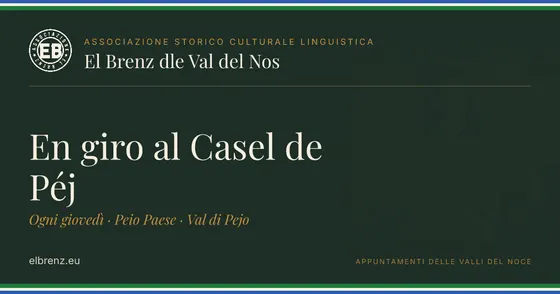
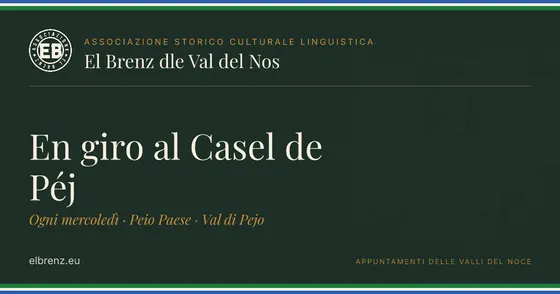
mappa: lo slot della carta storica, e un'assenza che si spiega invece di sembrare un guasto
Il catasto asburgico d'impianto non c'è, e non per una scelta: la licenza è
a posto, sono i fogli a non essere raggiungibili. Il dataset su
dati.trentino.it ha una sola risorsa, catastotn.it, che oggi risponde 301
verso un portale autenticato; e il GeoServer provinciale ha un solo
workspace e centonove livelli, fra cui il catasto storico non c'è. Letto
tutto, non dedotto.

Quindi qui c'è il posto e non il contenuto. src/lib/catastoStorico.ts tiene
le coperture, oggi vuote: il giorno che i fogli arrivano si aggiunge una voce
e la mappa si comporta di conseguenza da sola, riquadri, confini, zoom utili
e attribuzione compresi.

E finché è vuoto la mappa non mette un riquadro bianco: un pannello dice che
la carta storica non c'è ancora e perché. Un'assenza spiegata è
informazione, una muta sembra un guasto del sito. Quando ci sarà, lo stesso
pannello diventa il cursore della trasparenza, perché il valore vero non è
vedere l'ottocento ma vederlo sopra l'oggi, e dice anche quando ci si sposta
fuori dall'area coperta.

Il selettore di sfondo passa da due voci a tre: la mappa standard smette di
essere solo un ripiego per quando il servizio provinciale non risponde e
diventa una scelta. La quarta voce, il catasto, comparirà da sola con i dati:
metterla adesso vorrebbe dire un interruttore che non accende niente.

I pin ora hanno un'ombra portata oltre al bordo avorio. Su ortofoto un pin
scuro sparisce dentro un bosco e uno chiaro dentro un prato secco: il bordo
[…]

Changed region(s): [[0.0911, 0.7041, 0.4857, 0.7653]]

diff --git a/src/lib/catastoStorico.ts b/src/lib/catastoStorico.ts
@@ -1,0 +1,99 @@
+// src/lib/catastoStorico.ts — il catasto asburgico d'impianto come sfondo
+// storico della mappa delle Valli.
+//
+// [4/8/2026] PERCHE' QUESTO FILE ESISTE VUOTO.
+//
+// Il livello non c'e' ancora, e non per una scelta: i fogli non sono
+// raggiungibili. La licenza, quella si', e' a posto e permissiva (vedi in
+// fondo). E' la fonte a essersi spostata:
+//
+//   - il dataset «Mappe storiche d'impianto» su dati.trentino.it ha UNA sola
+//     risorsa, `catastotn.it/mappeStoriche.html`, che oggi risponde 301 verso
+//     `openkat.it`, un portale autenticato del Libro Fondiario. Il servizio di
+//     download aperto non esiste piu' a quell'indirizzo;
+//   - il GeoServer provinciale (siat.provincia.tn.it) ha un solo workspace e
+//     centonove livelli, e fra questi il catasto storico NON c'e': verificato
+//     leggendo le capacita' per intero il 4/8/2026.
+//
+// Quindi qui c'e' il posto, non il contenuto. Il giorno che i fogli arrivano,
+// accendere il livello e' UNA VOCE in `COPERTURE` e nient'altro: la mappa
+// legge da qui e si comporta di conseguenza da sola.
+//
+// LA REGOLA CHE GOVERNA QUESTO FILE: finche' `COPERTURE` e' vuoto la mappa
+// NON mostra un riquadro vuoto, dice che per quella zona la carta storica non
+// c'e' ancora. Un'assenza spiegata e' informazione; un'assenza muta sembra un
+// guasto, ed e' la lezione della giornata.
+
+/** Un'area coperta dalla carta storica, con i suoi riquadri gia' generati. */
+export type CoperturaStorica = {
+  /** Comune catastale, come lo chiama il catasto: «Malè», non «Male'». */
+  comuneCatastale: string;
+  /** Modello dell'indirizzo dei riquadri, con {z}/{x}/{y}. */
+  urlRiquadri: string;
+  /** Confini dell'area coperta: [[sud, ovest], [nord, est]]. Fuori da qui il
+   *  livello non si chiede nemmeno, cosi' non si bussa a vuoto. */
+  confini: [[number, number], [number, number]];
+  /** Ingrandimenti che hanno senso. Sotto il minimo il dettaglio non c'e' e i
+   *  riquadri peserebbero senza aggiungere niente; sopra il massimo si vede
+   *  solo la grana della scansione. */
+  zoomMin: number;
+  zoomMax: number;
+  /** Anno o intervallo del rilievo, per la didascalia. */
+  rilievo: string;
+};
+
+/**
+ * LE AREE COPERTE. Vuoto di proposito: vedi in testa.
+ *
+ * Quando i fogli di Malè saranno disponibili, la voce sara' di questa forma
+ * (confini da restringere su quelli veri del comune catastale):
+ *
+ *   {
+ *     comuneCatastale: 'Malè',
+ *     urlRiquadri: 'https://…/catasto-impianto/male/{z}/{x}/{y}.png',
+ *     confini: [[46.33, 10.88], [46.38, 10.94]],
+ *     zoomMin: 13,
+ *     zoomMax: 18,
+ *     rilievo: '1817-1855',
+ *   }
+ */
+export const COPERTURE: CoperturaStorica[] = [];
+
+/** C'e' almeno un'area coperta? */
+export const catastoDisponibile = (): boolean => COPERTURE.length > 0;
+
+/** L'area che copre un punto, se c'e'. */
+export function coperturaPer(lat: number, lng: number): CoperturaStorica | null {
+  return COPERTURE.find(({ confini: [[s, o], [n, e]] }) =>
+    lat >= s && lat <= n && lng >= o && lng <= e) ?? null;
+}
+
+/** I comuni catastali coperti, per dirlo a chi guarda. */
+export const comuniCoperti = (): string[] => COPERTURE.map((c) => c.comuneCatastale);
+
+/**
+ * L'ATTRIBUZIONE, che va mostrata SULLA MAPPA quando il livello e' acceso, non
+ * nascosta in una pagina di crediti.
+ *
+ * La Provincia non impone una dicitura testuale: la pagina dei termini del
+ * portale non esiste piu' (404 il 4/8/2026). Vale quindi il minimo che la
+ * CC BY 4.0 chiede, costruito dai metadati del dataset stesso: autore,
+ * titolare, licenza con collegamento, e l'indicazione che il materiale e'
+ * stato modificato (i riquadri sono un'opera derivata dai fogli originali).
+ */
+export const ATTRIBUZIONE_CATASTO =
+  'Mappe storiche d\'impianto © <a href="https://dati.trentino.it/dataset/mappe-storiche-d-impianto">'
+  + 'Provincia Autonoma di Trento, Servizio catasto</a> · '
+  + '<a href="https://creativecommons.org/licenses/by/4.0/deed.it">CC BY 4.0</a> · '
+  + 'riquadri derivati dai fogli originali';
+
+/**
+ * La datazione. ATTENZIONE, e' un punto su cui non improvvisare: il dataset
+ * della Provincia data le proprie mappe d'impianto al **1817-1855**. Altre
+ * fonti parlano del rilievo tirolese completato nel 1861, che e' una fase
+ * diversa dello stesso catasto francescano. Sulla pagina va la datazione della
+ * fonte che stiamo effettivamente mostrando, non quella generale.
+ *
+ * Il testo divulgativo lo scrive la chat: qui c'e' solo il dato verificabile.
+ */
+export const DATAZIONE_FONTE = '1817-1855';
